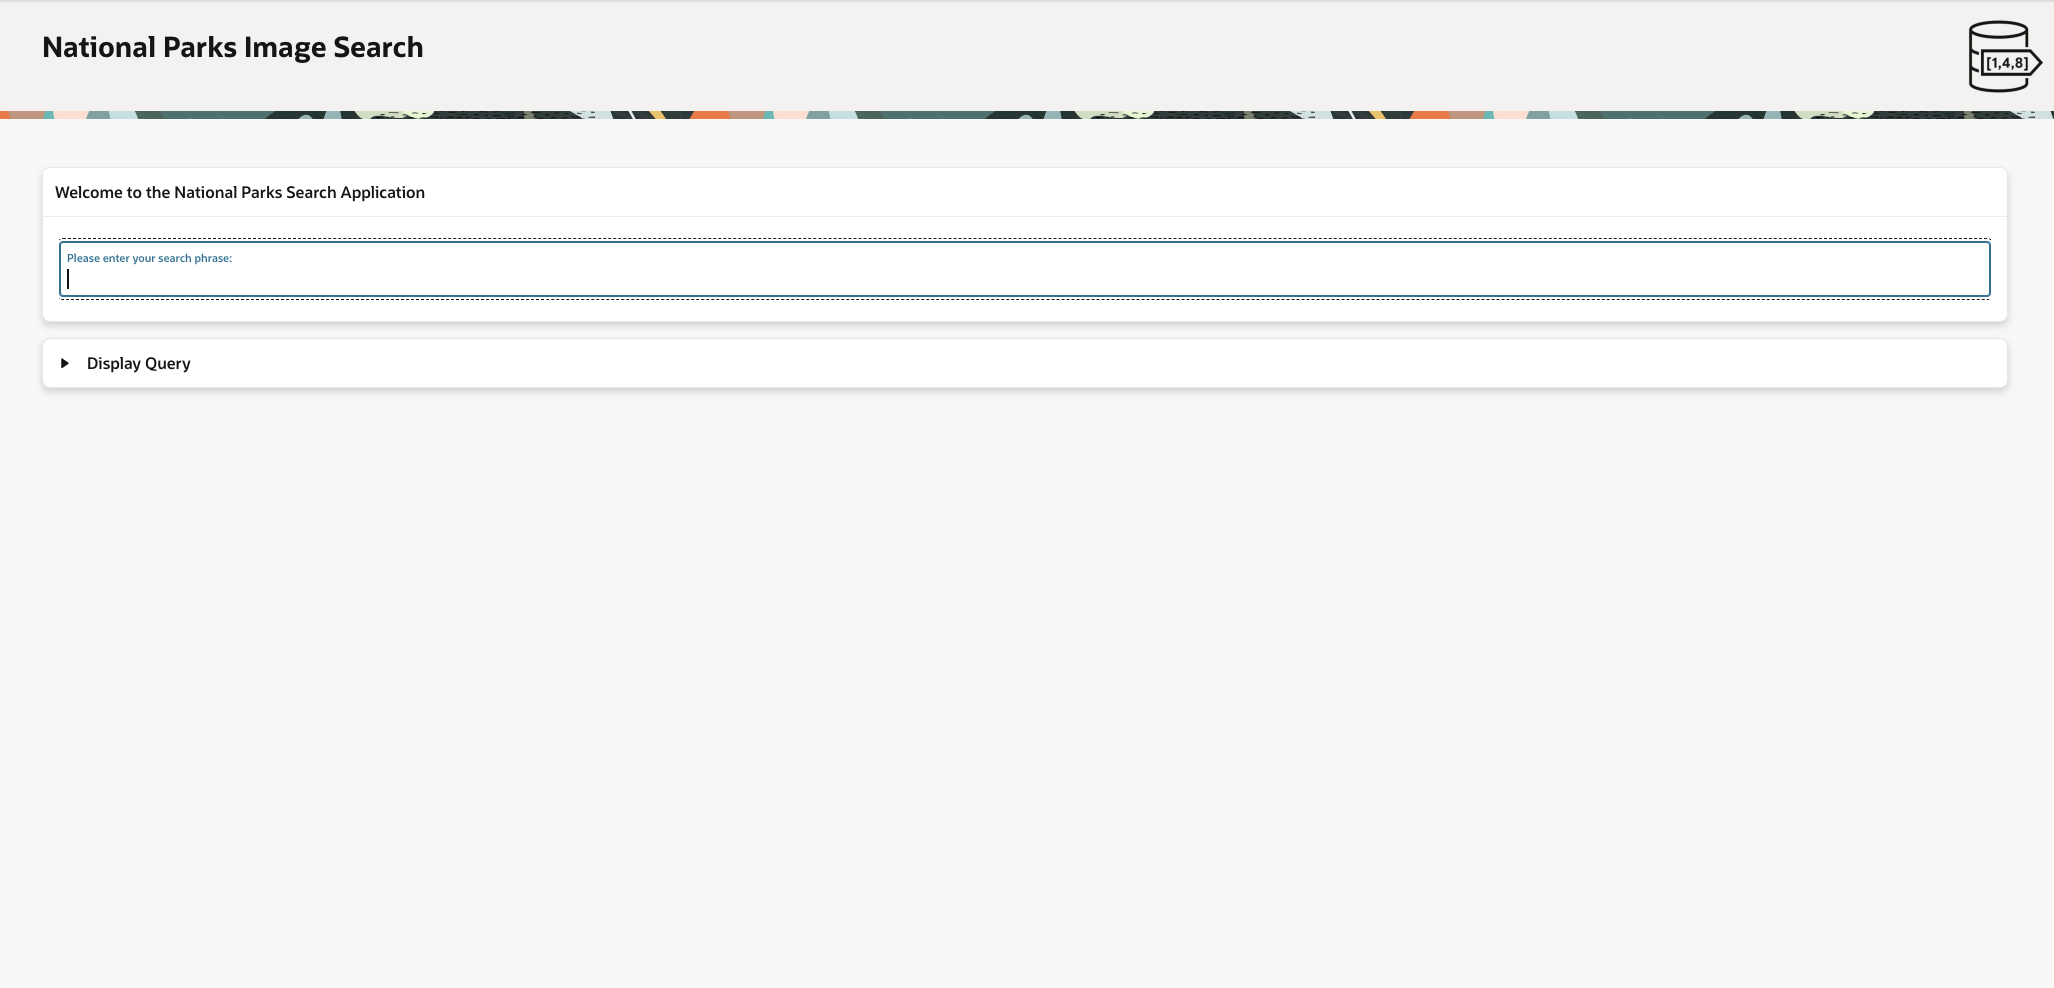
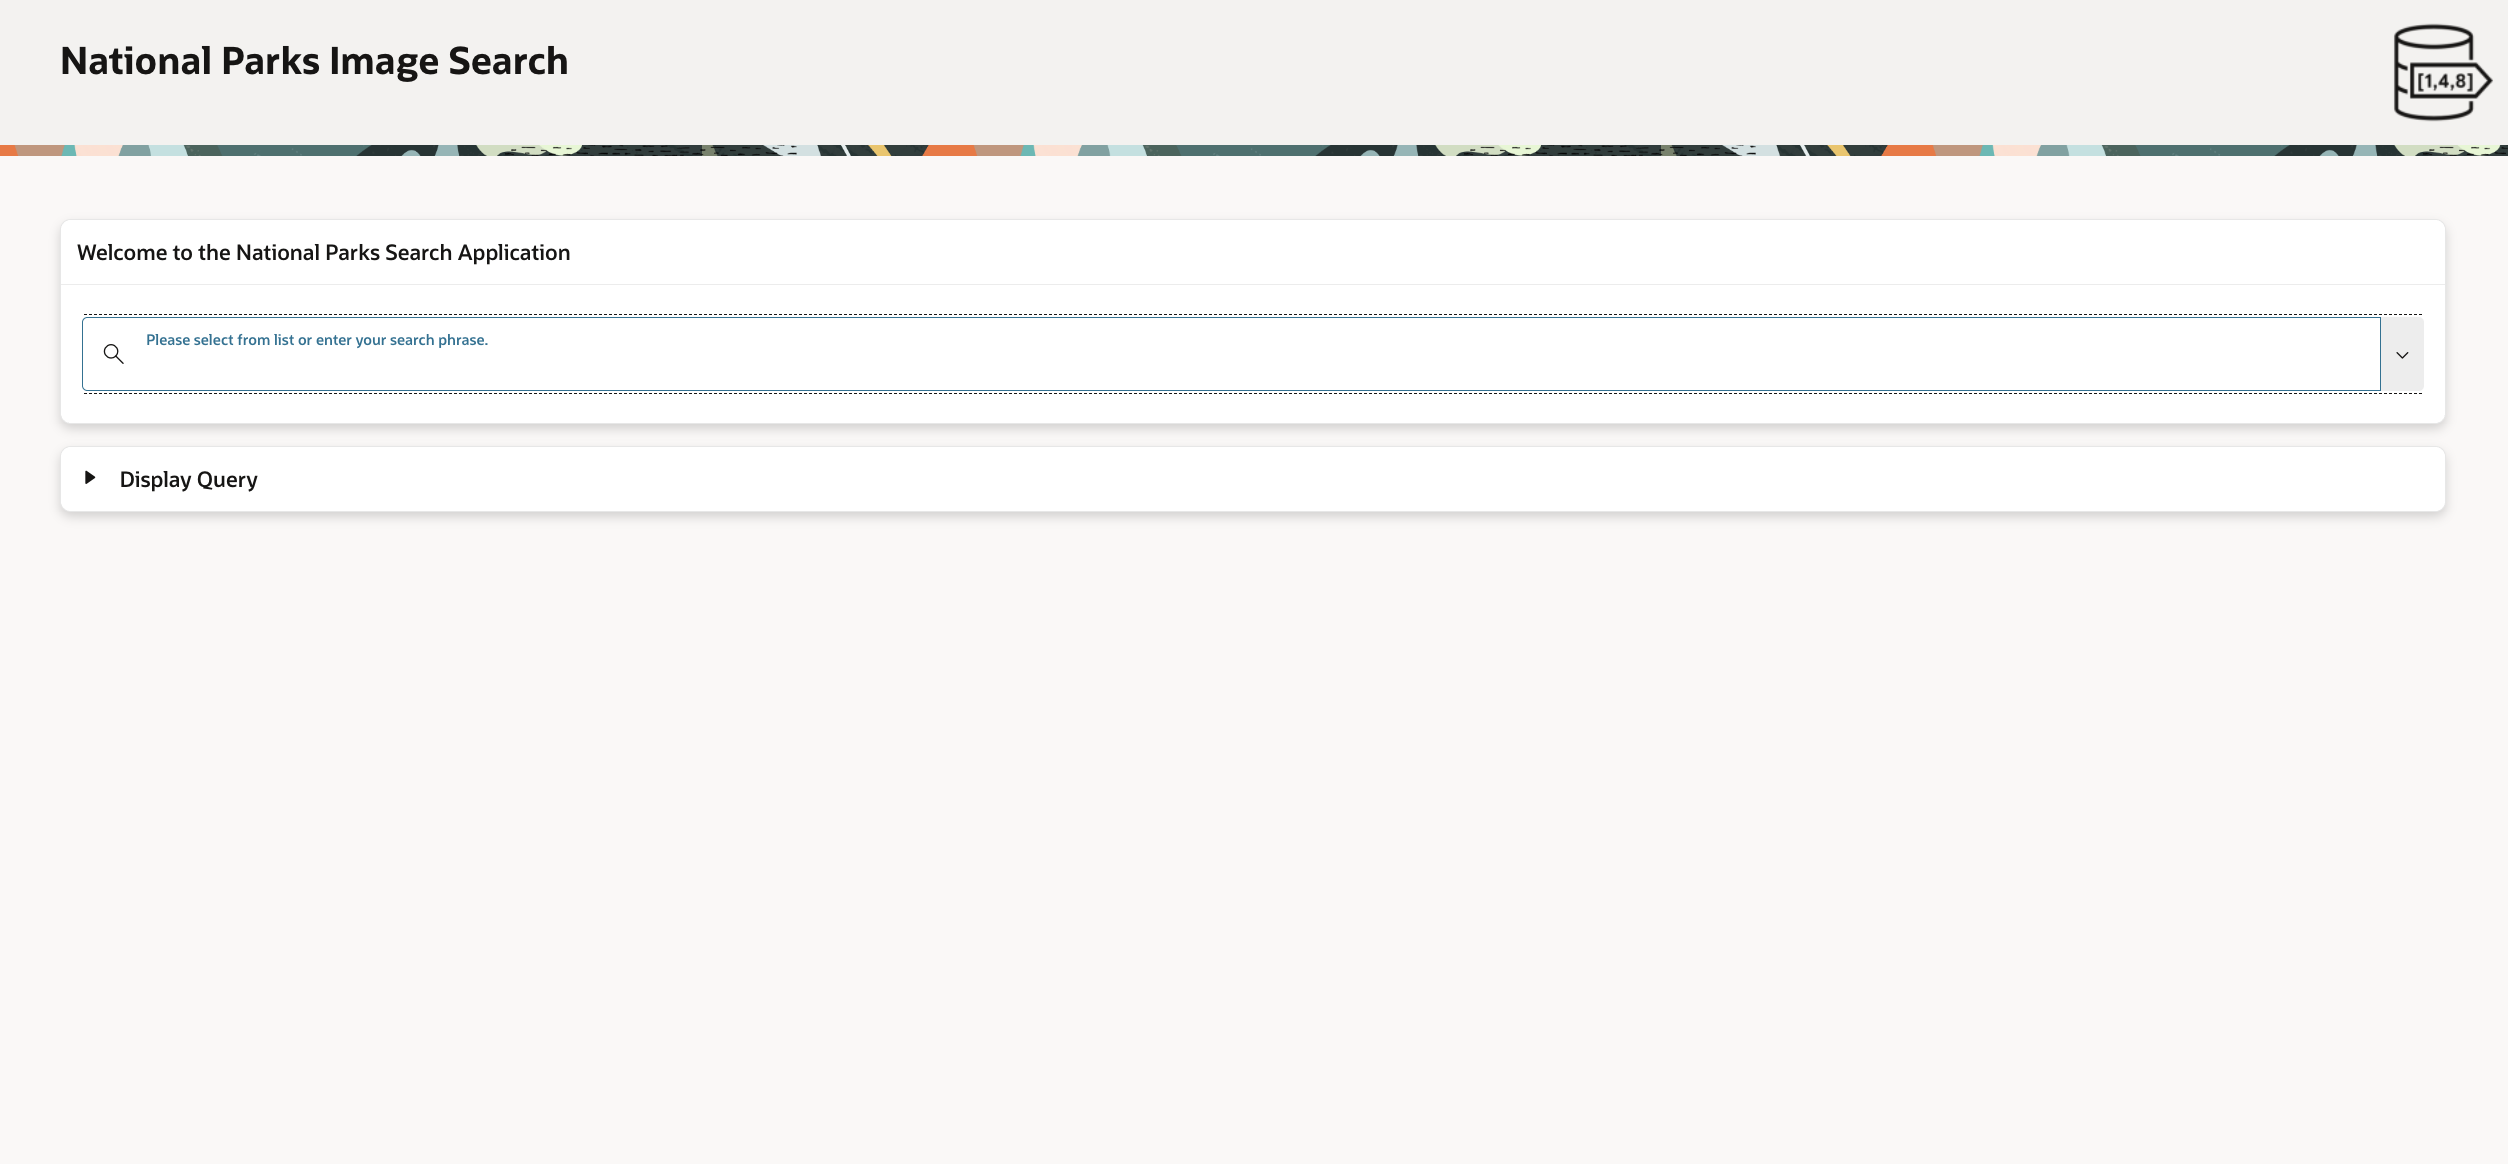
Updated APEX demo images
Updated the APEX demo images with new logo and pulldown search terms.

Changed region(s): [[0.0312, 0.1822, 0.9659, 0.334], [0.0, 0.0, 1.0, 0.1518], [0.0312, 0.3644, 0.9659, 0.4251]]

diff --git a/ai-vector-search-fundamentals/6-apex_demo/apex_demo.md b/ai-vector-search-fundamentals/6-apex_demo/apex_demo.md
@@ -44,7 +44,7 @@ You should see a browser window like the following:
 
 ## Task 1: Run the APEX demo
 
-You can now enter any search term you would like to search on. You can pull down on a pre-created list of search terms or make up your own. The demo is designed to return the top 10 most similar park images based on the search term. Only one image per park is returned although the dataset contains many images for most parks.
+You can now enter any search term you would like to search on. You can pull down on a pre-created list of search terms or make up your own. The demo is designed to return the top 10 most similar park images based on the search term. Only one image per park is returned in search order, although the dataset contains many images for most parks.
 
 The following shows searching on the term "geysers":
 
@@ -52,9 +52,15 @@ The following shows searching on the term "geysers":
 
     ![apex search](images/apex_search.png " ")
 
-2. If you would like to see the SQL that is being run then just click on the arrow next to the "Display Query" label:
+2. If you would like to see a list of search terms then you can just click on the arrow to the far right of the query box:
+
+    ![apex query](images/apex_pulldown_screen.png " ")
+
+3. If you would like to see the SQL that is being run then just click on the arrow next to the "Display Query" label:
 
     ![apex query](images/apex_query_screen.png " ")
+
+Go ahead and experiment with different search terms. You can't hurt anything and you may be amazed at just how good AI Vector Search really is.
 
 
 ## Learn More
